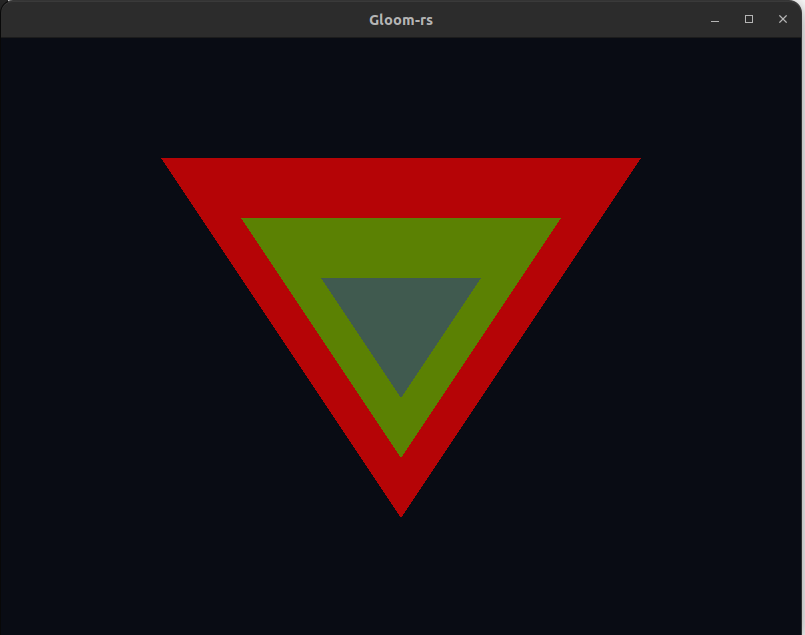
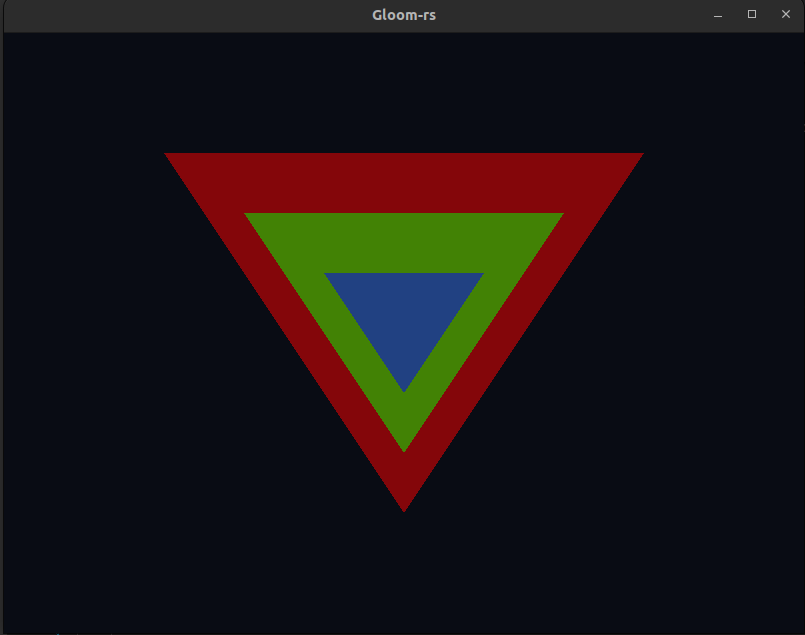
Assignment 2, Task 2, question b)i)

Changed region(s): [[0.1863, 0.2394, 0.8075, 0.8079], [0.0, 0.0, 1.0, 1.0]]

diff --git a/src/main.rs b/src/main.rs
@@ -231,19 +231,45 @@ fn main() {
         let my_vao2 = unsafe { create_vao(&vertices2_vec_4, &indices2_vec_4) };
 
         // Triangles for Assignment 2 Task 2
+        // let vertices3_vec_4: Vec<f32> = vec![
+        //     -0.6, -0.6, 0.9, 1.0, 0.0, 0.0, 0.5,
+        //     0.6, -0.6, 0.9, 1.0, 0.0, 0.0, 0.5,
+        //     0.0,  0.6, 0.9, 1.0, 0.0, 0.0, 0.5,
+
+        //     -0.4, -0.4, 0.5, 0.0, 1.0, 0.0, 0.5,
+        //     0.4, -0.4, 0.5, 0.0, 1.0, 0.0, 0.5,
+        //     0.0, 0.4, 0.5, 0.0, 1.0, 0.0, 0.5,
+
+        //     -0.2, -0.2, 0.0, 0.0, 0.0, 1.0, 0.5,
+        //     0.2, -0.2, 0.0, 0.0, 0.0, 1.0, 0.5,
+        //     0.0, 0.2, 0.0, 0.0, 0.0, 1.0, 0.5,
+        // ];
         let vertices3_vec_4: Vec<f32> = vec![
-            -0.6, -0.6, 0.9, 1.0, 0.0, 0.0, 0.7,
-            0.6, -0.6, 0.9, 1.0, 0.0, 0.0, 0.7,
-            0.0,  0.6, 0.9, 1.0, 0.0, 0.0, 0.7,
+            -0.6, -0.6, 0.9, 0.0, 0.0, 1.0, 0.5,
+            0.6, -0.6, 0.9, 0.0, 0.0, 1.0, 0.5,
+            0.0,  0.6, 0.9, 0.0, 0.0, 1.0, 0.5,
 
-            -0.4, -0.4, 0.5, 0.0, 1.0, 0.0, 0.5,
-            0.4, -0.4, 0.5, 0.0, 1.0, 0.0, 0.5,
-            0.0, 0.4, 0.5, 0.0, 1.0, 0.0, 0.5,
+            -0.4, -0.4, 0.5, 1.0, 0.0, 0.0, 0.5,
+            0.4, -0.4, 0.5, 1.0, 0.0, 0.0, 0.5,
+            0.0, 0.4, 0.5, 1.0, 0.0, 0.0, 0.5,
 
-            -0.2, -0.2, 0.0, 0.0, 0.0, 1.0, 0.3,
-            0.2, -0.2, 0.0, 0.0, 0.0, 1.0, 0.3,
-            0.0, 0.2, 0.0, 0.0, 0.0, 1.0, 0.3,
+            -0.2, -0.2, 0.0, 0.0, 0.1, 0.0, 0.5,
+            0.2, -0.2, 0.0, 0.0, 0.1, 0.0, 0.5,
+            0.0, 0.2, 0.0, 0.0, 0.1, 0.0, 0.5,
         ];
+        // let vertices3_vec_4: Vec<f32> = vec![
+        //     -0.6, -0.6, 0.9, 0.0, 1.0, 0.0, 0.5,
+        //     0.6, -0.6, 0.9, 0.0, 1.0, 0.0, 0.5,
+        //     0.0,  0.6, 0.9, 0.0, 1.0, 0.0, 0.5,
+
+        //     -0.4, -0.4, 0.5, 0.0, 0.0, 1.0, 0.5,
+        //     0.4, -0.4, 0.5, 0.0, 0.0, 1.0, 0.5,
+        //     0.0, 0.4, 0.5, 0.0, 0.0, 1.0, 0.5,
+
+        //     -0.2, -0.2, 0.0, 1.0, 0.0, 0.0, 0.5,
+        //     0.2, -0.2, 0.0, 1.0, 0.0, 0.0, 0.5,
+        //     0.0, 0.2, 0.0, 1.0, 0.0, 0.0, 0.5,
+        // ];
 
         // adding more triangles, we also have to add more indices (3 for each)
         let indices3_vec_4: Vec<u32> = vec![

diff --git a/report/report2.md b/report/report2.md
@@ -37,36 +37,84 @@ This is a HTML-style comment, not visible in the final PDF.
 
 ## (a)
 ```rust
-let vertices_vec_4: Vec<f32> = vec![
-    -0.6, -0.6, 0.0, 1.0, 1.0, 1.0,
-    0.6, -0.6, 0.0, 1.0, 1.0, 1.0,
-    0.0,  0.6, 0.0, 1.0, 1.0, 1.0,
+// Triangles for Assignment 2 Task 2
+        let vertices3_vec_4: Vec<f32> = vec![
+            -0.6, -0.6, 0.9, 1.0, 0.0, 0.0, 0.5,
+            0.6, -0.6, 0.9, 1.0, 0.0, 0.0, 0.5,
+            0.0,  0.6, 0.9, 1.0, 0.0, 0.0, 0.5,
 
-    -0.6, 0.6, 0.0, 1.0, 1.0, 1.0,
-    0.6, 0.6, 0.0, 1.0, 1.0, 1.0,
-    0.0, 0.9, 0.0, 1.0, 1.0, 1.0,
+            -0.4, -0.4, 0.5, 0.0, 1.0, 0.0, 0.5,
+            0.4, -0.4, 0.5, 0.0, 1.0, 0.0, 0.5,
+            0.0, 0.4, 0.5, 0.0, 1.0, 0.0, 0.5,
 
-    -0.8, -0.8, 0.0, 1.0, 0.0, 0.0,
-    -0.4, -0.8, 0.0, 1.0, 0.0, 0.0,
-    -0.6, -0.65, 0.0, 1.0, 0.0, 0.0,
+            -0.2, -0.2, 0.0, 0.0, 0.0, 1.0, 0.5,
+            0.2, -0.2, 0.0, 0.0, 0.0, 1.0, 0.5,
+            0.0, 0.2, 0.0, 0.0, 0.0, 1.0, 0.5,
+        ];
 
-    -0.5, 0.4, 0.0, 1.0, 1.0, 1.0,
-    0.5, 0.4, 0.0, 1.0, 1.0, 1.0,
-];
+        // adding more triangles, we also have to add more indices (3 for each)
+        let indices3_vec_4: Vec<u32> = vec![
+            0, 1, 2,
+            3, 4, 5,
+            6, 7, 8,
+            ];
 
-// adding more triangles, we also have to add more indices (3 for each)
-let indices_vec_4: Vec<u32> = vec![
-    0, 1, 2,
-    3, 4, 5,
-    6, 7, 8,
-    0, 9, 3,
-    1, 10, 2,
-    ];
+
+        let my_vao3 = unsafe { create_vao(&vertices3_vec_4, &indices3_vec_4) };
+
 ```
 
 ![Three transparent triangles overlapping](images/Assignment2Task2OverlappingTriangles.png)
 
-The closest triangles have been rendered more transparent than the furthest ones to display that the triangles are on top of each other.
+## (b)
+### (i)
+```rust
+// Triangles for Assignment 2 Task 2
+        let vertices3_vec_4: Vec<f32> = vec![
+            -0.6, -0.6, 0.9, 0.0, 0.0, 1.0, 0.5,
+            0.6, -0.6, 0.9, 0.0, 0.0, 1.0, 0.5,
+            0.0,  0.6, 0.9, 0.0, 0.0, 1.0, 0.5,
+
+            -0.4, -0.4, 0.5, 1.0, 0.0, 0.0, 0.5,
+            0.4, -0.4, 0.5, 1.0, 0.0, 0.0, 0.5,
+            0.0, 0.4, 0.5, 1.0, 0.0, 0.0, 0.5,
+
+            -0.2, -0.2, 0.0, 0.0, 0.1, 0.0, 0.5,
+            0.2, -0.2, 0.0, 0.0, 0.1, 0.0, 0.5,
+            0.0, 0.2, 0.0, 0.0, 0.1, 0.0, 0.5,
+        ];
+
+        // adding more triangles, we also have to add more indices (3 for each)
+        let indices3_vec_4: Vec<u32> = vec![
+            0, 1, 2,
+            3, 4, 5,
+            6, 7, 8,
+            ];
+
+
+        let my_vao3 = unsafe { create_vao(&vertices3_vec_4, &indices3_vec_4) };
+
+```
+
+![Three transparent triangles with different colors overlapping](images/Assignment2Task2OverlappingTrianglesDifferentColor.png)
+
+When swapping the colors of the three triangles, the color of the area in which the triangles overlap changes as well.
+This can be explained by the following equation: \
+Color_New = Color_Source · Alpha_Source + Color_Destination · (1 − Alpha_Source ) \
+Let's apply this equation to a pixel in the overlapping area in both cases and witness the difference.
+In the first case (question (a)), we have:
+- When the first (red) triangle is drawn: Color_New = 0.5\*red + 1\*black
+- When the second (green) triangle is drawn: Color_New = 0.5\*green + 0.5\*(0.5\*red + 1\*black) = 0.5\*green + 0.25\*red + 0.5\*black
+- When the last (blue) triangle is drawn: Color_New = 0.5\*blue + 0.5\*(0.5\*green + 0.25\*red + 0.5\*black) = 0.5\*blue + 0.25\*green + 0.125\*red + 0.25\*black
+
+Whereas in the second case (question (b)), we have:
+- When the first (blue) triangle is drawn: Color_New = 0.5\*blue + 1\*black
+- When the second (red) triangle is drawn: Color_New = 0.5\*red + 0.5\*(0.5\*blue + 1\*black) = 0.5\*red + 0.25\*blue + 0.5\*black
+- When the last (green) triangle is drawn: Color_New = 0.5\*green + 0.5\*(0.5\*red + 0.25\*blue + 0.5\*black) = 0.5\*green + 0.25\*red + 0.125\*blue + 0.25\*black
+
+0.5\*blue + 0.25\*green + 0.125\*red + 0.25\*black != 0.5\*green + 0.25\*red + 0.125\*blue + 0.25\*black, therefore the overlapping area appears in a different color in each case.
+
+### (ii)
 
 
 # Task 3: The Affine Transformation Matrix
